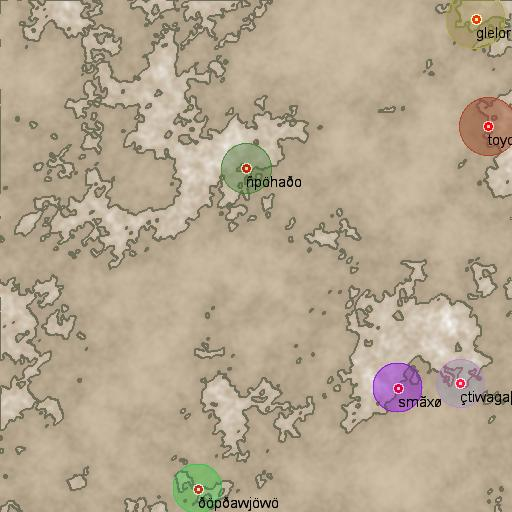
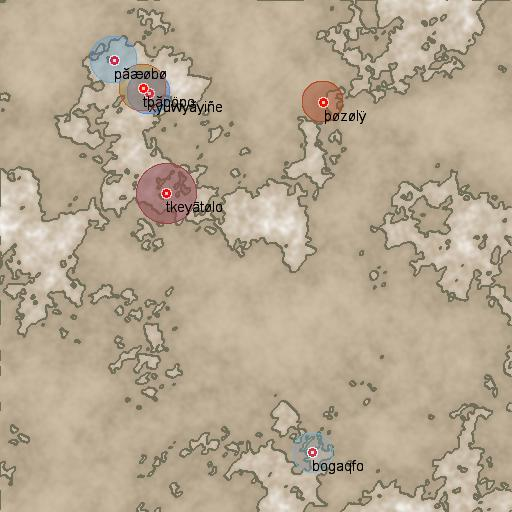
HO FATTO LE ISOLE

diff --git a/world.py b/world.py
@@ -3,7 +3,7 @@ import noise, random, math, civilization, collections
 from utils import *
 
 class World():
-
+	#2, 0.45, 0.4, 0.2
 	def __init__(self, x, y, civs_num=2, roughness=0.45, coldness=0.4, dryness=0.2):
 		self.width = x
 		self.height = y
@@ -33,6 +33,9 @@ class World():
 		self.tempmap = self.create_matrix(6, 0.8, 2.2, exp=coldness)
 		
 		self.biomemap = self.create_biome_matrix()
+
+		self.islandsmap = [[0 for x in range(self.width)] for y in range(self.height)]
+		self.identify_islands()
 		
 		self.civs = {} #dizionario civ_obj:(x,y)
 		for _ in range(civs_num):
@@ -212,61 +215,93 @@ class World():
 
 		return img
 
-	def create_islands_matrix(self):
-		islands = [[-1 for x in range(self.width)] for y in range(self.height)]
-		island_id = 1
+	def connected_regions(self):
+		matrix = [[0 for x in range(self.width)] for y in range(self.height)]
+		seen = set()
+		counter = 1
+		equivalences = {}
 		
-		for y in range(self.height):
-			for x in range(self.width):
-				if "mare" in self.biomemap[y][x]:
-					islands[y][x] = 0
-					continue
-
-				try:
-					n = [islands[y+y_][x+x_] for y_ in range(-1, 2) for x_ in range(-1, 2) if x_!=y_]
-				except:
-					continue
-					
-				if n.count(0) + n.count(-1) == len(n): #se sono tutti 0 o -1
-					islands[y][x] = island_id
-					island_id += 1
-				else:
-					for el in n:
-						if el!=0 and el!=-1:
-							identifier = el
-							break
-					islands[y][x] = el
-		return islands
-
-	def refine_islands(self, islands):
-		for y in range(self.height):
-			for x in range(self.width):
-				if islands[y][x] == 0:
-					continue
-				try:
+		for x in range(self.width):
+			for y in range(self.height):
+				#print(x,y,end=", ")
+				#crea una lista neigh che contiene le celle vicine a quella in questione
+				#che sono già state visitate
+				neigh = list()
+				for x_ in range(-1,2):
 					for y_ in range(-1,2):
-						for x_ in range(-1,2):
-							if y_!=x_:
-								if islands[y+y_][x+x_]!=islands[y][x] and islands[y+y_][x+x_]!=0:
-									islands[y+y_][x+x_] = islands[y][x]
-				except:
-					continue
-		return islands
+						if not (y_==0 and x_==0):
+							if (x+x_, y+y_) in seen:
+								neigh.append(matrix[y+y_][x+x_])
+
+				#print(neigh, self.heightmap[y][x], end=", ")
+				#se la cella selezionata è circondata da caselle vuote e ad essa
+				#corrisponde, in heightmap, un punto di terra emersa, dichiara una
+				#nuova isola
+				if neigh.count(0) == len(neigh) and self.heightmap[y][x] > self.sea_lvl:
+					counter += 1
+					matrix[y][x] = counter
+					
+				elif self.heightmap[y][x] <= self.sea_lvl:
+					matrix[y][x] = 0
+
+				#altrimenti, si assegna alla cella in questione l'id più piccolo tra
+				#quelli nel neigh. in caso di conflitti (ie quando ci sono più id isola
+				#nello stesso neigh) si assegna al dizionario equivalences un record:
+				#equivalences[id_grande] = id_minore
+				#per poter, in seguito, riunire tutto in un unica isola
+				else:
+					unique_values_neigh = set(neigh)
+					#print(unique_values_neigh)
+					try:
+						unique_values_neigh.remove(0)
+					except:
+						pass
+						
+					if len(unique_values_neigh) > 1:
+						for _ in range(len(unique_values_neigh)-1):
+							equivalences[max(unique_values_neigh)] = min(unique_values_neigh)
+							unique_values_neigh.remove(max(unique_values_neigh))
+
+					matrix[y][x] = min(unique_values_neigh)
 				
 
-	def island_img(self, isl_mtrx):
+				seen.add((x,y))
+
+		self.islandsmap = matrix
+		print(equivalences)
+		return equivalences
+
+	def identify_islands(self):
+		equivalences = self.connected_regions()
+		
+		for x in range(self.width):
+			for y in range(self.height):
+				'''while True:
+					if self.islandsmap[y][x] in list(equivalences.keys()):
+						self.islandsmap[y][x] = equivalences[self.islandsmap[y][x]]'''
+				self.islandsmap[y][x] = self.find_root(equivalences, self.islandsmap[y][x])
+					
+
+	def find_root(self, d, value):
+		if value not in d.keys():
+			return value
+		else:
+			return self.find_root(d, d[value])
+		
+	def island_img(self):
 		img = Image.new( 'RGB', (self.width, self.height), (255,255,255,0))
 		pixels = img.load()
 
+		#RIFARE CON SET (INSIEMI)
 		colors = {}
 		for y in range(img.size[1]):
 			for x in range(img.size[0]):
-				if isl_mtrx[y][x] not in list(colors.keys()):
-					colors[isl_mtrx[y][x]] = (random.randint(0,255),random.randint(0,255),random.randint(0,255))
+				if self.islandsmap[y][x] not in list(colors.keys()):
+					colors[self.islandsmap[y][x]] = (random.randint(0,255),random.randint(0,255),random.randint(0,255))
 
 		for y in range(img.size[1]):
 			for x in range(img.size[0]):
-				pixels[x,y] = colors[isl_mtrx[y][x]]
+				pixels[x,y] = colors[self.islandsmap[y][x]]
 		return img
 				
 	def return_complete_world_image(self, old_effect=True):
@@ -351,7 +386,7 @@ class World():
 
 		self.mark_civs_on_map(self.draw_borders_on(self.height_img)).show()
 		self.find_collisions()
-		self.island_img(self.refine_islands(self.create_islands_matrix())).show()
+		self.island_img().show()
 
 
 
